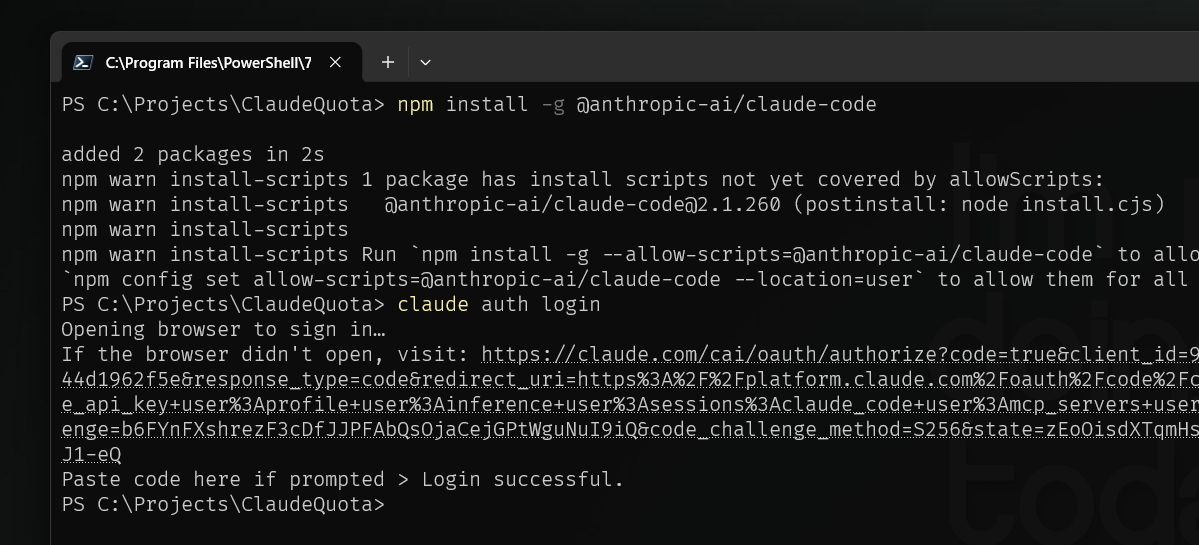
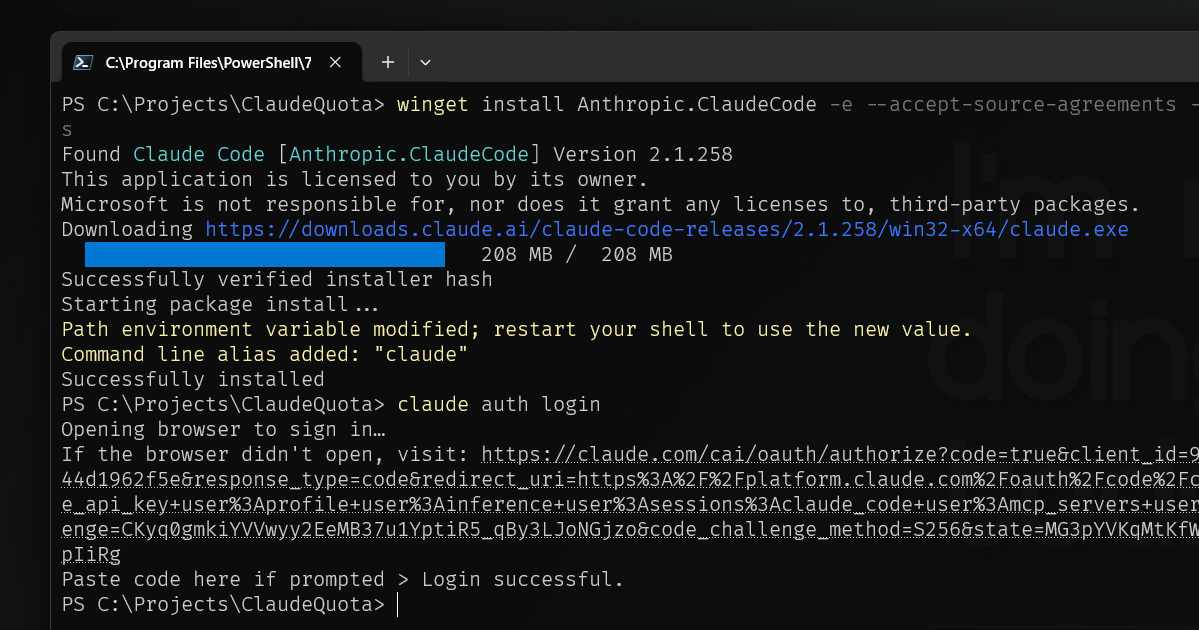
simplify CLI setup to a single winget install, no Node.js needed

Changed region(s): [[0.0309, 0.0312, 1.0, 0.967]]

diff --git a/README.uk.md b/README.uk.md
@@ -61,15 +61,14 @@
 
 > **Не бачите жодних цифр?** ClaudeQuota потребує саме Claude Code CLI - термінальний інструмент, окремий від Claude Desktop і claude.ai - встановлений і один раз авторизований. Вкладка **Code** в самому Claude Desktop виглядає схоже, але не створює файл логіну, який читає ClaudeQuota, навіть якщо реально почати в ній сесію - це не замінник; так само не підходить claude.ai в браузері, у якого взагалі немає доступу до файлів вашого ПК.
 >
-> 1. Натисніть **Win**, введіть `PowerShell`, клацніть правою кнопкою на результаті й оберіть **Запуск від імені адміністратора** (потрібно для встановлення Node.js на весь комп'ютер) - підтвердіть запит Windows, що з'явиться.
+> 1. Натисніть **Win**, введіть `PowerShell`, натисніть Enter, щоб відкрити термінал.
 > 2. Виконайте:
 >    ```
->    winget install OpenJS.NodeJS.LTS
+>    winget install Anthropic.ClaudeCode
 >    ```
-> 3. Закрийте це вікно і відкрийте новий PowerShell від імені адміністратора так само (Windows потребує свіжий термінал, щоб побачити встановлене).
+> 3. Закрийте це вікно і відкрийте новий PowerShell так само (Windows потребує свіжий термінал, щоб побачити встановлене).
 > 4. Виконайте:
 >    ```
->    npm install -g @anthropic-ai/claude-code
 >    claude auth login
 >    ```
 >    і увійдіть тим самим акаунтом, яким користуєтесь у Claude Desktop або claude.ai. Далі реально користуватись Claude Code не потрібно - ClaudeQuota сам підхопить цей логін.

diff --git a/README.md b/README.md
@@ -61,15 +61,14 @@ Since the endpoint is undocumented and the access token lives for about an hour,
 
 > **Not seeing any numbers?** ClaudeQuota needs the actual Claude Code CLI - a terminal tool, separate from both Claude Desktop and claude.ai - installed and signed in once. Claude Desktop's own **Code** tab looks similar but doesn't create the login file ClaudeQuota reads, even after actually starting a session there, so it's not a substitute; neither is claude.ai in a browser, which has no access to your PC's files at all.
 >
-> 1. Press **Win**, type `PowerShell`, right-click the result and choose **Run as administrator** (needed to install Node.js system-wide) - approve the Windows prompt that appears.
+> 1. Press **Win**, type `PowerShell`, press Enter to open a terminal.
 > 2. Run:
 >    ```
->    winget install OpenJS.NodeJS.LTS
+>    winget install Anthropic.ClaudeCode
 >    ```
-> 3. Close that window and open a new administrator PowerShell the same way (Windows needs a fresh terminal to see the install).
+> 3. Close that window and open a new PowerShell the same way (Windows needs a fresh terminal to see the install).
 > 4. Run:
 >    ```
->    npm install -g @anthropic-ai/claude-code
 >    claude auth login
 >    ```
 >    and sign in with the same account you use in Claude Desktop or claude.ai. You don't need to actually use Claude Code for anything afterward - ClaudeQuota picks up the login automatically.
